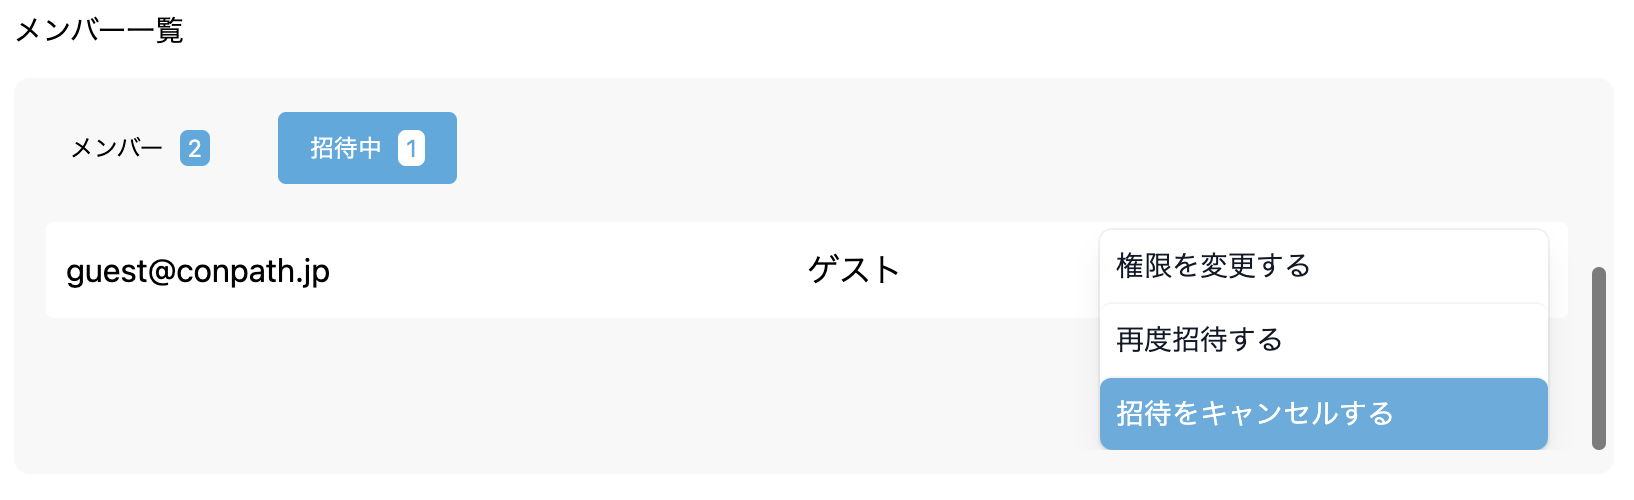
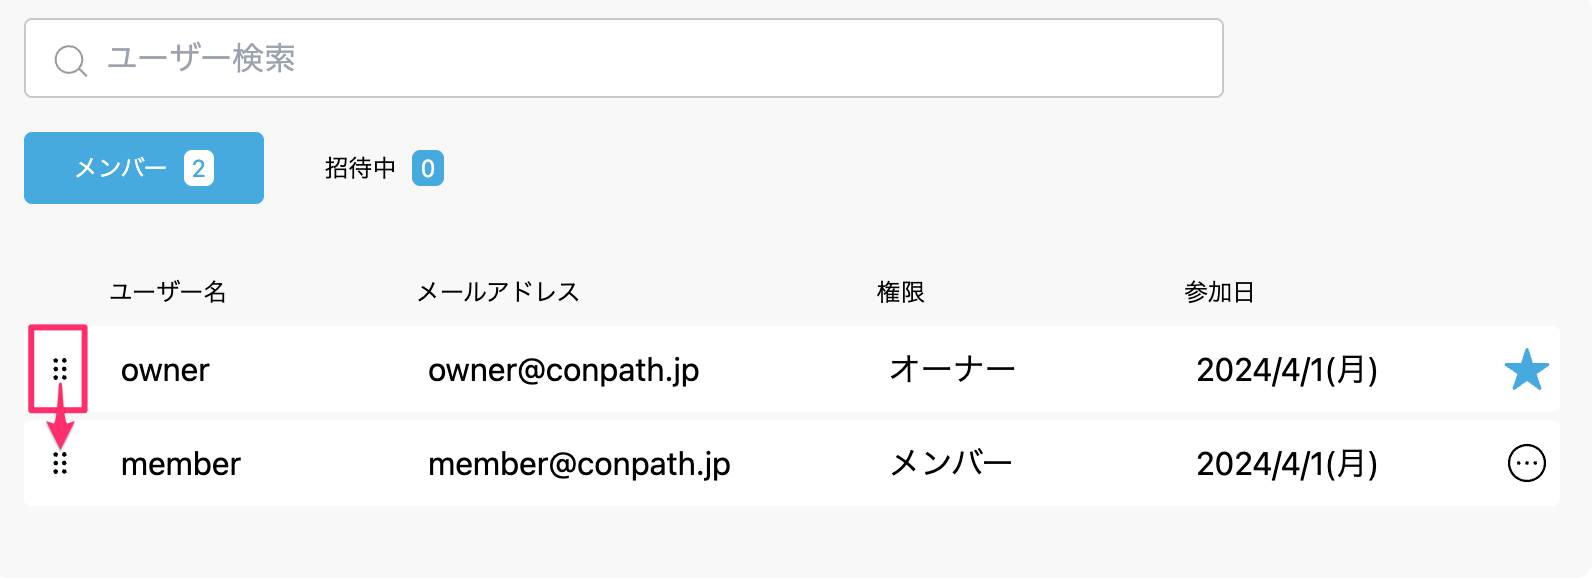
新機能の反映

diff --git a/settings/users/index.md b/settings/users/index.md
@@ -95,13 +95,29 @@ has_children: false
 {: .note }
 この設定は組織の権限がオーナーのみ可能です。
 
+## メンバーの並べ替えをする
+
+1. [設定>ユーザー管理]を開きます。
+2. メンバー一覧のメンバータブがアクティブになっている状態で、並べ替えたい行の[ハンドル]アイコンをクリックし、ドラッグアンドドロップで移動させます。
+
+   <table><tr><td>
+   <img src="/assets/images/settings/users/8.png" width="100%">
+   </td></tr></table>
+
+   <table><tr><td>
+   <img src="/assets/images/settings/users/9.png" width="100%">
+   </td></tr></table>
+
+{: .note }
+設定した並び順はリソースや担当者の選択候補にも反映されます。
+
 ## メンバーの招待をキャンセルする
 
 1. [設定>ユーザー管理]を開きます。
 2. メンバー一覧の招待中タブがアクティブになっている状態で、[...]のドロップダウンメニューから[招待をキャンセルする]をクリックします。
 
    <table><tr><td>
-   <img src="/assets/images/settings/users/8.png" width="100%">
+   <img src="/assets/images/settings/users/10.png" width="100%">
    </td></tr></table>
 
 {: .note }
@@ -113,7 +129,7 @@ has_children: false
 2. メンバー一覧のメンバータブがアクティブになっている状態で、[...]のドロップダウンメニューから[退会させる]をクリックします。
 
    <table><tr><td>
-   <img src="/assets/images/settings/users/9.png" width="100%">
+   <img src="/assets/images/settings/users/11.png" width="100%">
    </td></tr></table>
 
 {: .note }

diff --git a/CHANGELOG.md b/CHANGELOG.md
@@ -7,6 +7,15 @@ layout: default
 
 <!-- All notable user-facing changes to this project are documented in this file. -->
 
+## Release v1.5.3
+
+### 新機能
+- [メンバーの並べ替え](/settings/users/#メンバーの並べ替えをする)ができるようになりました
+- リソース画面の重複時のバーにマウスホバーした際にプロジェクト名が表示されるようになりました
+- ロードマップ、リソース画面の検索条件が記憶されるようになりました
+- ロードマップ画面でプロジェクトのタグを複数選択して検索できるようになりました
+- リソース画面でリソースのタグを複数選択して検索できるようになりました
+
 ## Release v1.5.2
 
 ### 新機能
